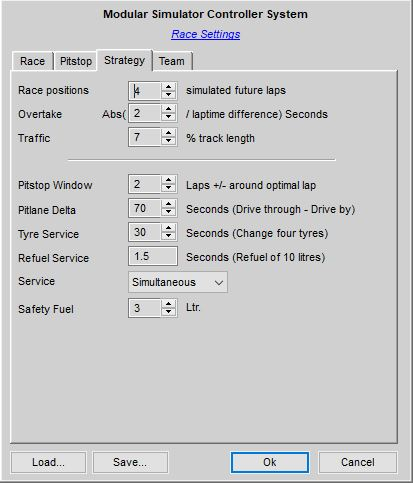
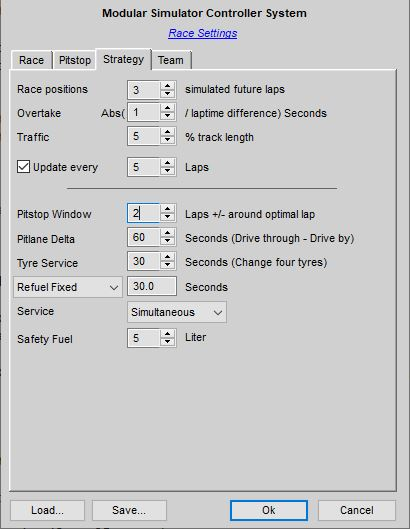
Automatic Strategy Part 1

Changed region(s): [[0.0, 0.0, 1.0, 1.0]]

diff --git a/Docs/Race Settings.md b/Docs/Race Settings.md
@@ -63,6 +63,7 @@ This settings are generally available, although you can and have to define them 
 | Strategy   | Pitlane Delta                            | Integer | 60                              | Yes | The time difference in seconds between drive by and drive through of the pitlane. |
 | Strategy   | Pitstop Window                           | Integer | 2                               | Yes | Specifies, how many laps before an after the projected pitstop (depending on available fuel), the Strategist will simulate to create his recommendation for an upcoming pitstop. |
 | Strategy   | Considered Traffic                       | Integer | 5                               | Yes | Specifies the length of the track (in percentage of the overall length) which will be considered in traffic density calculations by the Strategist. |
+| Strategy   | Automatic recalculation                  | Integer | 0                               | Yes | If there is an active strategy for the current session, the Strategist will try to optimize this strategy on behalf of the current race situation and will inform the driver if a better strategy can be derived. This setting specify the number of laps between each recalculation, with **0** meaning no recalculation at all. Enabling this will put a high demand on the CPU, so test it before using it in an important race. |
 | Team Session| Cooldown                                | Integer | 600                             | No  | Number of seconds that will be waited after a finished session before a new connection to a Team Server session will be opened. |
 | Assistants | Cooldown                                 | Integer | 90                              | No  | Number of seconds that the Assistants will wait after a finished session before they will become active again. |
 | Spotter    | Late Join                                | Boolean | True                            | No  | If *True* (which is the default), the Spotter will also become active, when you join mid-session. |

diff --git a/Docs/Virtual Race Strategist.md b/Docs/Virtual Race Strategist.md
@@ -131,6 +131,8 @@ You will find settings for the race strategy analysis and simulation in the thir
 Using the fields in the first group, you can customize the projection of current race positions into a model of future race standings. Cato will calculate this model each lap and will store the future standings for a given number of laps in the working memory and use them for strategy decisions. You can control the number of laps calculated for future standings by changing the value in the field *Race positions*. Greater numbers will yield better predictions, but take care, it might cost a lot of computing power.
 With the second field, *Overtake Delta*, you specify the number of seconds as time discount for each overtake for the passing and for the passed car, whereas you specify the percentage of track length in front of the car, which will be taken into account for traffic density analysis.
 
+You can also activate an automatic recalculation of a [predefined strategy](https://github.com/SeriousOldMan/Simulator-Controller/wiki/Virtual-Race-Strategist#strategy-handling) on behalf of the current race situation. If a better strategy can be derived Cato will inform you and you might decide to activate the new strategy. Please note, that you can also ask the Strategist anytime to recalculate the strategy during a race, if you don't want to enable this automatic recalculation.
+
 The second group of fields specify the time required for several pitstop activities, as well as the pitstop window, in which the best pitstop lap will be derived. With the value of *Pitstop Delta*, you supply the difference time needed for a normal pitstop (time for pit in and pit out but without any service time minus the time to pass the pit area on the track, i.e. Drive through vs. Drive by), The fields below specify the time required for the various pit services, like changing tyres, refueling, and so on, as well as these times are combined into an overall pitstop service time.
 
 ### Pitstop Recommendation
